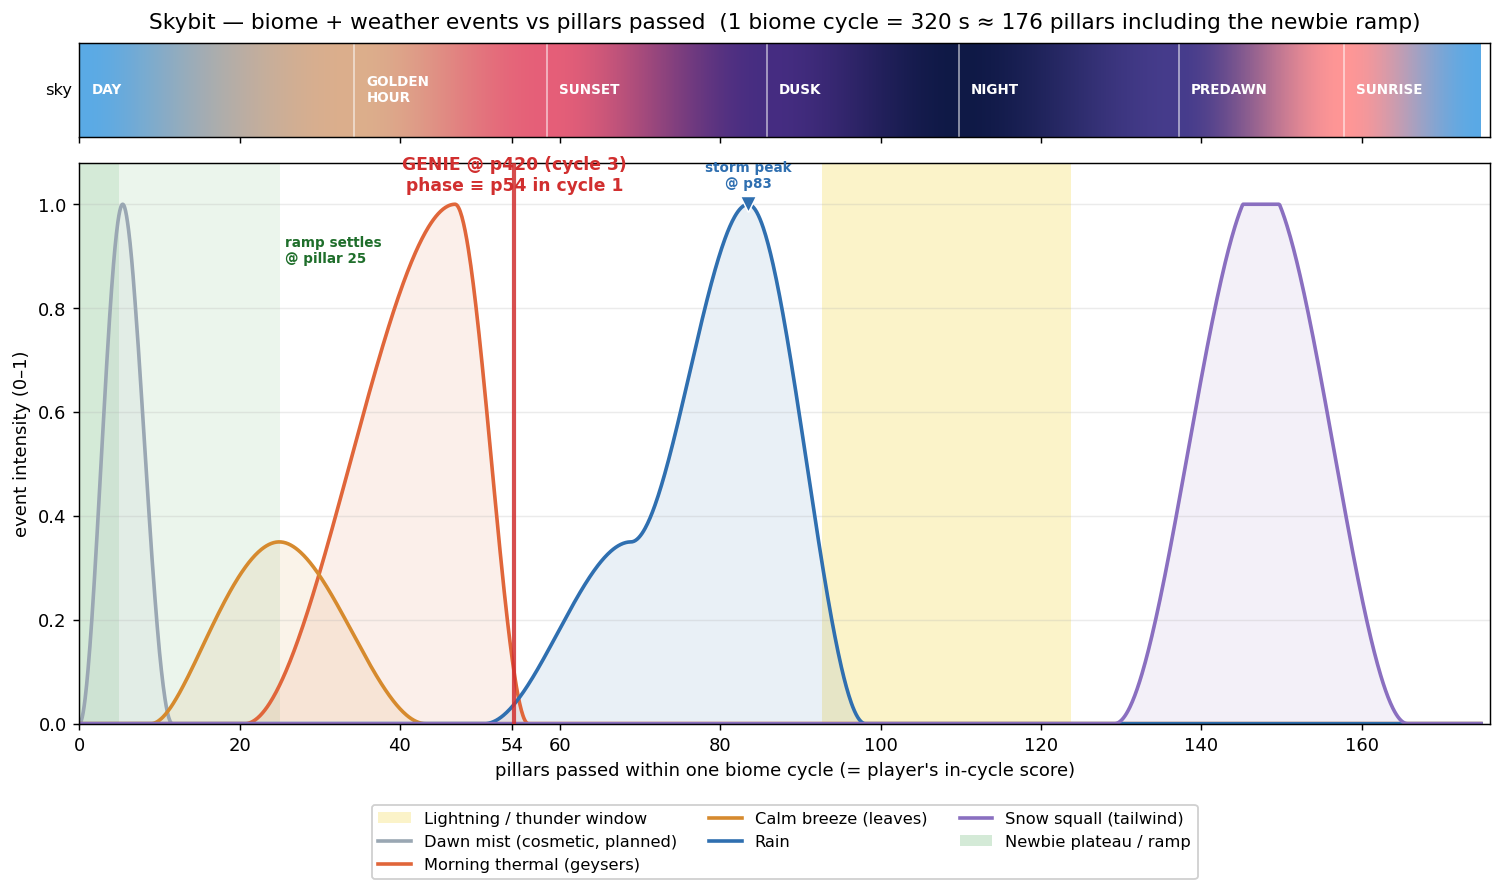
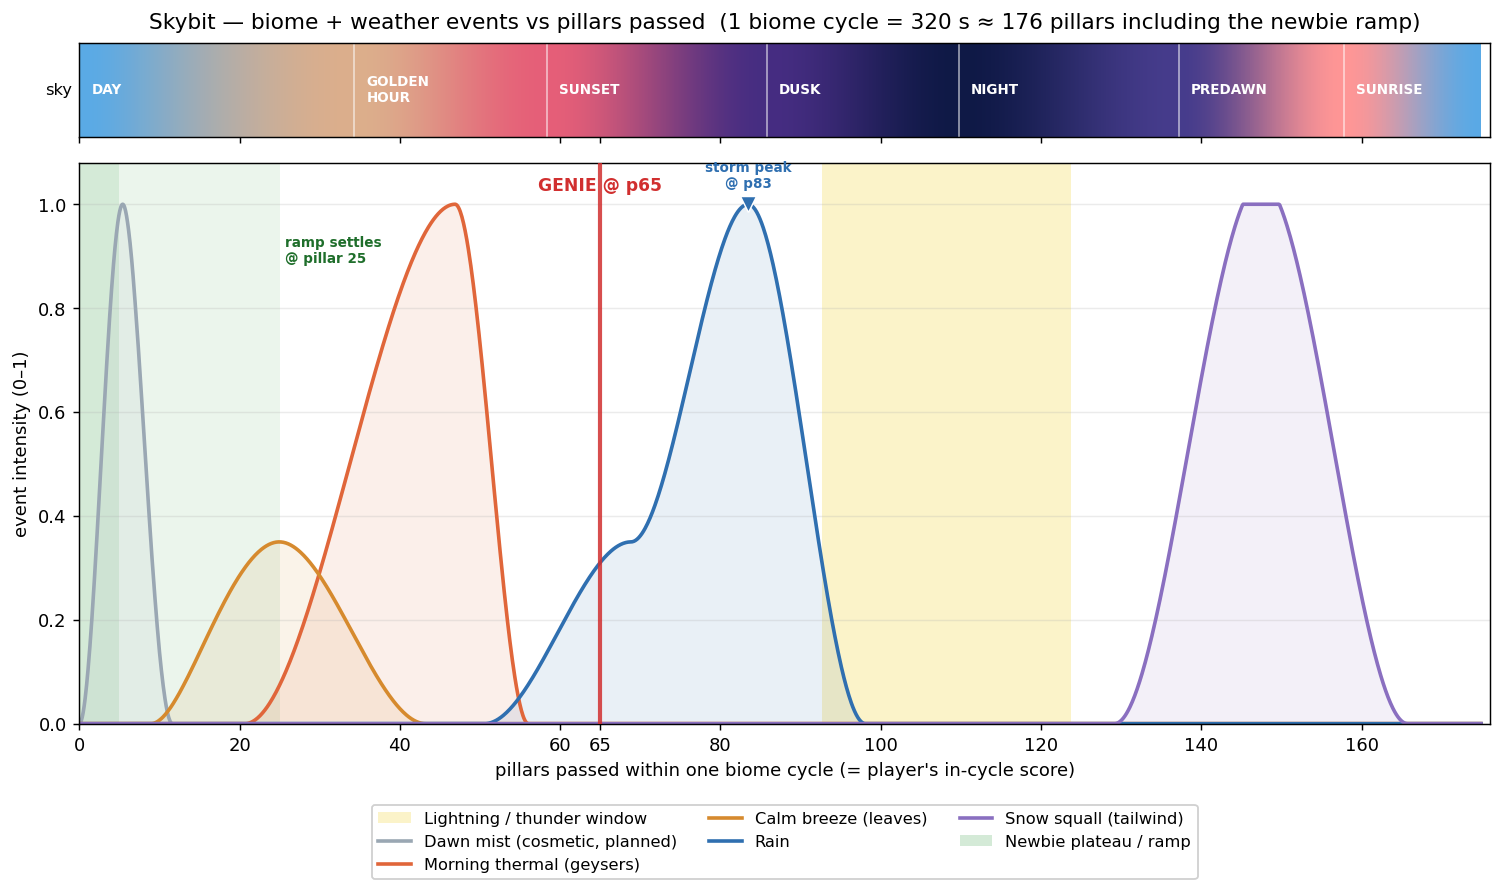
Genie milestone: pillar-based, lamp spawns in gap between pillars 65 and 66
Was: LATE_GAME_SCORE = 420; milestone fired on score crossing 420 from
any path (pipe pass, coin, lottery), forced the next regular spawn to
genie.

Now: LATE_GAME_PILLAR = 65; milestone fires exclusively in the pipe-
pass loop when pillars_passed crosses 65 (so coin/lottery score jumps
can't shift it). The lamp is placed directly in the spacing after
pillar 65 (= between pillars 65 and 66), using the standard in-gap
placement. The normal cooldown is set so a second powerup doesn't
stack right behind it; the regular spawn pipeline is otherwise
untouched (no "force next" override).

After the milestone fires, genie joins the regular spawn pool
(SECRET_POWERUP_WEIGHTS) and the Surprise Box re-roll choices. Both
checks now key on self._genie_milestone_fired instead of a score
threshold.

Renamed LATE_GAME_SCORE → LATE_GAME_PILLAR throughout. Removed the
obsolete _force_next_genie flag and the _check_genie_milestone calls
from _on_coin and the lottery path.

Plotter (tools/plot_biome_timeline_by_pillars.py) updated to read the
new constant; in-cycle label simplified for the cycle-1 case.

Changed region(s): [[0.2756, 0.1513, 0.4594, 0.2422]]

diff --git a/game/world.py b/game/world.py
@@ -26,7 +26,7 @@ from game.config import (
     LOTTERY_TIERS, LOTTERY_REVEAL_TIME,
     FLAP_V,
     COIN_RUSH_INTERVAL, COIN_RUSH_GAP_BOOST, COIN_RUSH_COINS,
-    SECRET_POWERUP_WEIGHTS, LATE_GAME_SCORE,
+    SECRET_POWERUP_WEIGHTS, LATE_GAME_PILLAR,
     GENIE_OFFER_COUNT, GENIE_OFFER_Y_SLOTS,
     GENIE_CHAMBER_GAP_BOOST, GENIE_CHAMBER_SPACING,
     GENIE_CHAMBER_REVEAL_DIST,
@@ -260,17 +260,10 @@ class World:
 
         self.game_over = False
 
-        # One-shot: when the run's score first crosses LATE_GAME_SCORE,
-        # the next power-up roll is forced to be a genie so the player
-        # gets a guaranteed introduction to the secret tier. Consumed
-        # by _maybe_spawn_powerup.
-        self._force_next_genie = False
-        # Tracks whether the genie-milestone has already fired this run.
-        # `==` against LATE_GAME_SCORE is unreliable because coins (esp.
-        # triple x3) and surprise score deltas can skip over the exact
-        # threshold; we use a one-shot flag + `>=` check polled from
-        # update() each frame so any path that bumps the score triggers
-        # the milestone exactly once.
+        # One-shot: when pillars_passed crosses LATE_GAME_PILLAR, a genie
+        # lamp is placed in the gap between that pillar and the next one,
+        # and from that point on the genie joins the regular spawn pool
+        # and the Surprise Box re-roll pool.
         self._genie_milestone_fired = False
 
         self._seed_first_pipes()
@@ -918,19 +911,28 @@ class World:
                 col, gravity=120,
             ))
 
-    def _check_genie_milestone(self):
-        """Fires once per run when score first crosses LATE_GAME_SCORE.
-        Called wherever score changes (pipe pass, coin collect, surprise
-        deltas, lottery) so a triple-coin jump 419→422 still triggers.
+    def _check_genie_milestone(self, last_scored_pipe):
+        """Fires once per run when pillars_passed crosses LATE_GAME_PILLAR.
+        Called from the pipe-pass loop with the pipe just scored, so the
+        genie lamp lands in the spacing immediately after it — the player
+        encounters the lamp while flying from pillar 65 toward pillar 66.
 
-        Sets _force_next_genie so the next regular power-up spawn — at the
-        normal cooldown + chance roll on a non-rush, non-chamber pipe — is
-        forced to be a genie lamp. Doesn't touch any pre-existing powerups
-        and doesn't bypass the regular spawn pipeline."""
-        if self._genie_milestone_fired or self.score < LATE_GAME_SCORE:
+        Pillar-based (not score-based) so coin pickups, lottery wins, and
+        storm-jolt deductions can't shift the moment. Doesn't override
+        any pre-existing powerup; the lamp just appears at the normal
+        in-gap placement."""
+        if self._genie_milestone_fired:
+            return
+        if self.pillars_passed < LATE_GAME_PILLAR:
             return
         self._genie_milestone_fired = True
-        self._force_next_genie = True
+        gx = (last_scored_pipe.x + PIPE_W
+              + self._current_spacing() * 0.5)
+        gy = last_scored_pipe.gap_y
+        self.powerups.append(PowerUp(gx, gy, kind="genie"))
+        # Set the standard cooldown so the next regular spawn doesn't
+        # immediately stack a second powerup right behind the lamp.
+        self.powerup_cooldown = POWERUP_COOLDOWN
 
     def _maybe_spawn_powerup(self, pipe: Pipe):
         if self.powerup_cooldown > 0:
@@ -952,22 +954,16 @@ class World:
                 continue
             kinds.append(k)
             weights.append(w)
-        # Secret late-game tier: only enters the roll once the run crosses
-        # LATE_GAME_SCORE. Kept out of POWERUP_WEIGHTS (and the Surprise
-        # re-roll) so the gate can't be bypassed.
-        if self.score >= LATE_GAME_SCORE:
+        # Secret late-game tier: only enters the roll once the genie
+        # milestone has fired (at pillar LATE_GAME_PILLAR). Kept out of
+        # POWERUP_WEIGHTS so the gate can't be bypassed.
+        if self._genie_milestone_fired:
             for k, w in SECRET_POWERUP_WEIGHTS:
                 kinds.append(k)
                 weights.append(w)
         if not kinds:
             return
         kind = random.choices(kinds, weights=weights, k=1)[0]
-        # LATE_GAME_SCORE milestone: the FIRST regular spawn after score
-        # crosses 420 is overridden to genie. Cooldown + chance still
-        # gate this normally (regular rate).
-        if self._force_next_genie:
-            kind = "genie"
-            self._force_next_genie = False
         x = pipe.x + PIPE_W + self._current_spacing() * 0.5 + random.uniform(-20, 20)
         y = pipe.gap_y + random.uniform(-10, 10)
         self.powerups.append(PowerUp(x, y, kind=kind))
@@ -1209,7 +1205,7 @@ class World:
                     p.scored = True
                     self.score += 1
                     self.pillars_passed += 1
-                    self._check_genie_milestone()
+                    self._check_genie_milestone(p)
                     self._proof.record(self.time_alive, 1, "pipe")
                     # RAIL: count down the per-ride pillar budget. Fires
                     # whether or not Pip locked — if all 5 tagged pipes
@@ -1697,7 +1693,6 @@ class World:
         self.score += value
         self.coin_count += 1
         self._proof.record(self.time_alive, value, "coin")
-        self._check_genie_milestone()
 
         # *** GLITCH FIX ***
         # NO screen-wide flash. Only localized sparkle particles.
@@ -1772,11 +1767,11 @@ class World:
                            if self.score >= POWERUP_REPLACED_AT.get("magnet", 1 << 30)
                            else "magnet")
             choices = ["triple", magnet_kind, "slowmo", "kfc", "ghost", "shrink"]
-            # Past LATE_GAME_SCORE, the Surprise Box also rolls the
-            # genie — the trap-bearing tier no longer needs its own
-            # standalone pickup to surface. (Knight / poison /
-            # skateboard stay genie-only.)
-            if self.score >= LATE_GAME_SCORE:
+            # Once the genie milestone has fired (pillar LATE_GAME_PILLAR
+            # passed), the Surprise Box also rolls the genie — the trap-
+            # bearing tier no longer needs its own standalone pickup to
+            # surface. (Knight / poison / skateboard stay genie-only.)
+            if self._genie_milestone_fired:
                 choices.append("genie")
             kind = random.choice(choices)
             self._spawn_surprise_reveal(m)
@@ -2460,7 +2455,6 @@ class World:
             self._proof.record(self.time_alive, delta, "lottery")
             color = UI_GOLD if delta >= 40 else UI_ORANGE
             audio.play_lottery_win()
-            self._check_genie_milestone()
         elif delta < 0:
             actual = -min(self.score, -delta)
             self.score += actual

diff --git a/tools/plot_biome_timeline_by_pillars.py b/tools/plot_biome_timeline_by_pillars.py
@@ -8,7 +8,7 @@ Sister tool to ``tools/plot_biome_timeline.py`` — same curves and same
 biome strip, but the x-axis is pillars (Pip's score) instead of
 gameplay seconds. Pillars are strictly monotonic in time so each
 weather event lands at a precise pillar count, which makes it obvious
-where the genie milestone (LATE_GAME_SCORE = 420) sits relative to the
+where the genie milestone (LATE_GAME_PILLAR = 65) sits relative to the
 dusk thunderstorm, the morning thermal, the snow squall, etc.
 """
 from __future__ import annotations
@@ -33,7 +33,7 @@ CYCLE = biome.CYCLE_SECONDS
 # the onboarding ramp eating into the first cycle's first ~25 pillars).
 N = 1800                   # sample resolution across the cycle
 
-GENIE_PILLAR = config.LATE_GAME_SCORE   # 420 today; in cycle 3 in reality
+GENIE_PILLAR = config.LATE_GAME_PILLAR   # 65 today; lands inside cycle 1
 
 
 def _hex(rgb):
@@ -191,17 +191,22 @@ def main() -> None:
         ax.plot(pillars, ys, color=color, linewidth=2.0, label=label)
         ax.fill_between(pillars, ys, color=color, alpha=0.10)
 
-    # ── Genie milestone marker (in-cycle equivalent) ─────────────────────
-    # Pillar 420 sits in cycle 3, but its weather phase repeats every cycle
-    # — show it on cycle 1's pillar axis so its weather context is visible.
+    # ── Genie milestone marker ──────────────────────────────────────────
+    # If the milestone lands inside cycle 1 (the typical case for a small
+    # pillar threshold), draw it directly. If it sits in a later cycle,
+    # show its weather-phase equivalent on cycle 1's pillar axis and label
+    # both numbers.
     ax.axvline(genie_equiv_pillar, color="#d12f2f", linewidth=2.3, alpha=0.85,
                linestyle="-", zorder=4)
-    ax.annotate(
-        f"GENIE @ p{GENIE_PILLAR} (cycle {genie_cycle})\n"
-        f"phase ≡ p{int(round(genie_equiv_pillar))} in cycle 1",
-        (genie_equiv_pillar, 1.02), textcoords="offset points",
-        xytext=(0, 2), ha="center", fontsize=9.5,
-        fontweight="bold", color="#d12f2f")
+    if genie_cycle == 1:
+        label = f"GENIE @ p{GENIE_PILLAR}"
+    else:
+        label = (f"GENIE @ p{GENIE_PILLAR} (cycle {genie_cycle})\n"
+                 f"phase ≡ p{int(round(genie_equiv_pillar))} in cycle 1")
+    ax.annotate(label, (genie_equiv_pillar, 1.02),
+                textcoords="offset points", xytext=(0, 2),
+                ha="center", fontsize=9.5,
+                fontweight="bold", color="#d12f2f")
 
     # ── Newbie ramp band ─────────────────────────────────────────────────
     ax.axvspan(0, config.PLATEAU_PIPES, color="#3ca34d", alpha=0.22,

diff --git a/game/config.py b/game/config.py
@@ -129,11 +129,18 @@ POWERUP_REPLACED_AT = {
 
 # ── Secret late-game power-ups ───────────────────────────────────────────────
 # A separate, undeclared tier that only enters the spawn roll once the run
-# crosses LATE_GAME_SCORE. Kept out of POWERUP_WEIGHTS (and the Surprise
-# re-roll) so the gate can't be bypassed, and out of the help screen so the
-# roster stays a surprise. Weights are normalized at pick time alongside the
-# normal pool.
-LATE_GAME_SCORE        = 420
+# crosses LATE_GAME_PILLAR pillars. Kept out of POWERUP_WEIGHTS (and the
+# Surprise re-roll) so the gate can't be bypassed, and out of the help screen
+# so the roster stays a surprise. Weights are normalized at pick time alongside
+# the normal pool.
+#
+# The milestone is keyed to PILLARS PASSED (not score) so it lands at the
+# same gameplay moment every run regardless of coin pickups, lottery wins,
+# or storm-jolt deductions. A genie lamp is placed in the spacing between
+# pillar LATE_GAME_PILLAR and the next pillar (so the player encounters it
+# right after scoring pillar 65). From that moment, the genie is also added
+# to the regular spawn pool and the Surprise Box re-roll pool.
+LATE_GAME_PILLAR       = 65
 # Only the genie spawns directly from the secret tier. Knight, skateboard,
 # and poison are reachable EXCLUSIVELY via the genie's fixed offer — they
 # are not in any weight table and cannot be Surprise-re-rolled.
